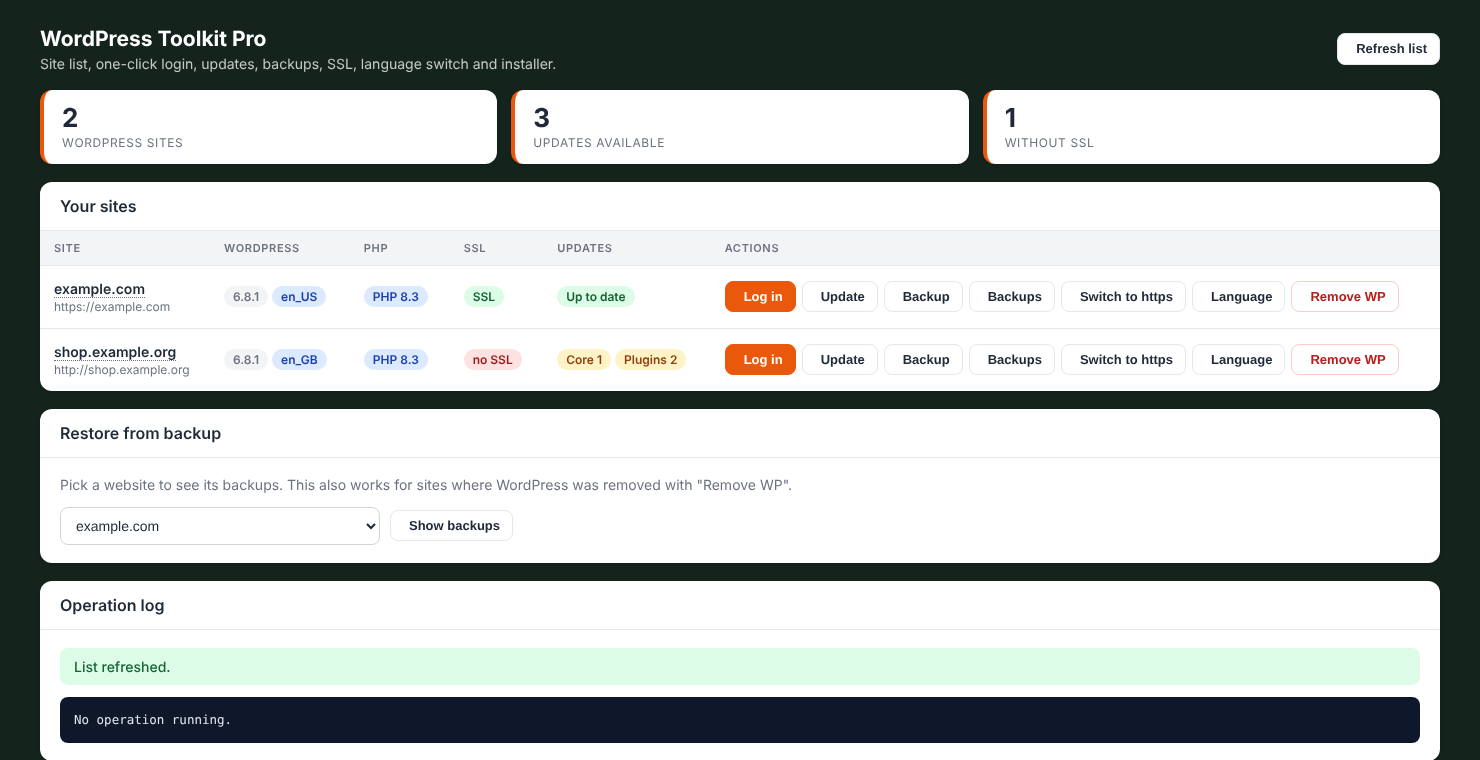
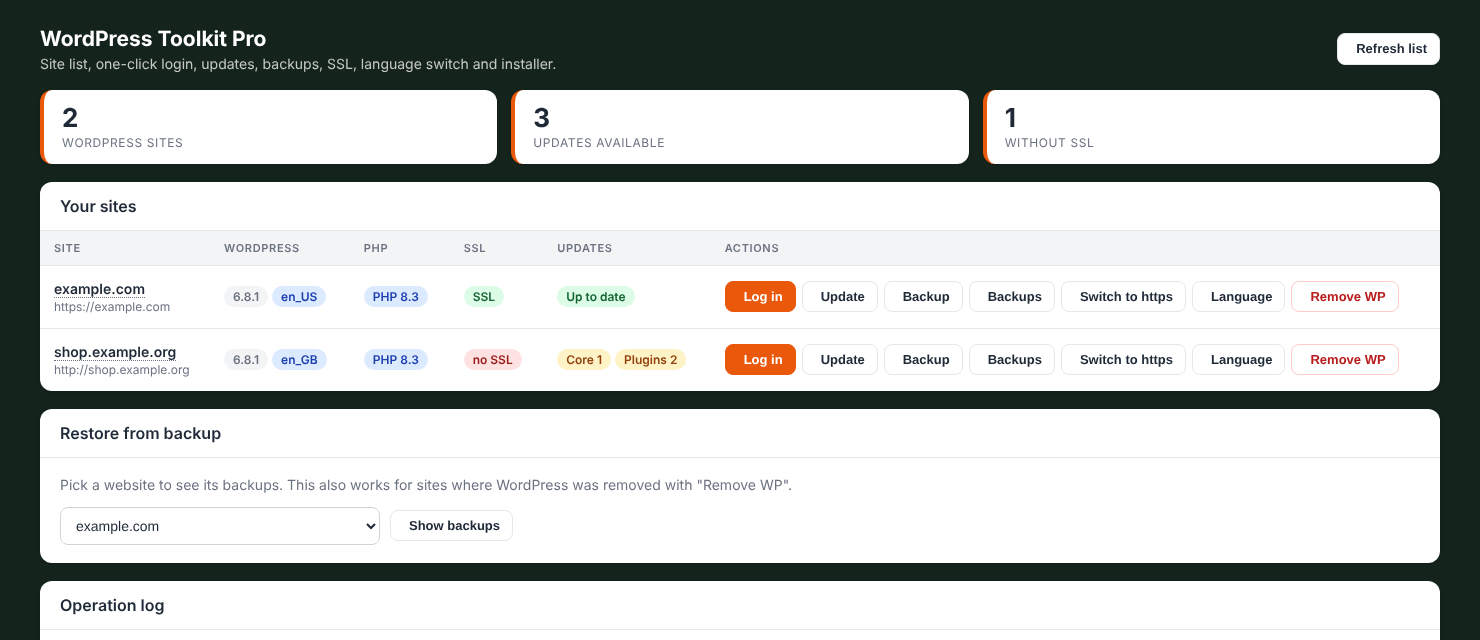
README: screenshots and step-by-step installation
Claude-Session: https://claude.ai/code/session_01XaVTjTMXY6eTLfQxTKzoXp

diff --git a/README.md b/README.md
@@ -20,6 +20,15 @@ A free, open-source plugin for [CyberPanel](https://cyberpanel.net/) (OpenLiteSp
 | **Remove WP** | Deletes the files, database and DB user of a site (the website stays in CyberPanel). Needs the domain typed as confirmation; a backup is taken first. |
 | **Installer** | Installs a fresh WordPress (random DB name/user/password, generated admin password, optional LiteSpeed Cache). Rolls back on failure. |
 
+## Screenshots
+
+*(Sample data.)*
+
+| | |
+|---|---|
+| ![Dashboard](docs/screenshot.png) | ![Backups and restore](docs/screenshot-backups.png) |
+| ![Change language](docs/screenshot-language.png) | ![Remove WordPress (typed confirmation)](docs/screenshot-remove.png) |
+
 ## Requirements
 
 * CyberPanel 3.0.x with OpenLiteSpeed, and root SSH access to the server
@@ -27,21 +36,44 @@ A free, open-source plugin for [CyberPanel](https://cyberpanel.net/) (OpenLiteSp
 * An `lsphp` binary (CyberPanel ships them), MariaDB, `openssl`, `tar`, `flock`
 * [WP-CLI](https://wp-cli.org/) at `/usr/local/bin/wp` (downloaded automatically on first install if missing)
 
-## Quick install
+## Installation, step by step
 
-On the server, as root (replace the URL with the release you want):
+You need SSH access to the server as **root**. Take a server snapshot first (e.g. in your hosting provider's control panel).
 
+**1. Get the zip.** Download `wordpressToolkitPro.zip` from the [latest release](../../releases/latest), or download it directly on the server in step 2 (option A).
+
+**2. Put it on the server as `/usr/local/CyberCP/wordpressToolkitPro.zip`.** The file name must be exactly that.
+
+*Option A: download on the server*
 ```bash
 cd /usr/local/CyberCP
 curl -fL -o wordpressToolkitPro.zip \
   https://github.com/ravxvx/cyberpanel-wordpress-toolkit-pro/releases/latest/download/wordpressToolkitPro.zip
-PYTHONPATH=/usr/local/CyberCP /usr/local/CyberCP/bin/python \
-  pluginInstaller/pluginInstaller.py install --pluginName wordpressToolkitPro
-rm -f /usr/local/CyberCP/wordpressToolkitPro.zip
 ```
 
-Wait a few seconds (the panel restarts itself), refresh the panel with Ctrl+F5 and open **WP Toolkit Pro** in the left sidebar.
-The zip file **must** be named `wordpressToolkitPro.zip`. Full instructions, updating and removing: [docs/INSTALL.md](docs/INSTALL.md).
+*Option B: upload from your computer* (run on **your** computer, then on the server):
+```bash
+scp wordpressToolkitPro.zip root@SERVER_IP:/root/wpt.zip      # on your computer
+cp /root/wpt.zip /usr/local/CyberCP/wordpressToolkitPro.zip   # on the server
+```
+
+**3. Check it is the current version** (should list `wptool.sh`):
+```bash
+unzip -l /usr/local/CyberCP/wordpressToolkitPro.zip | grep wptool
+```
+
+**4. Install:**
+```bash
+cd /usr/local/CyberCP
+PYTHONPATH=/usr/local/CyberCP /usr/local/CyberCP/bin/python \
+  pluginInstaller/pluginInstaller.py install --pluginName wordpressToolkitPro
+rm -f /usr/local/CyberCP/wordpressToolkitPro.zip /root/wpt.zip
+```
+The output should end with "Plugin successfully installed". The panel restarts itself a few seconds later.
+
+**5. Open it.** Refresh the panel (Ctrl+F5) and click **WP Toolkit Pro** in the left sidebar (or go to `https://SERVER_IP:8090/wordpressToolkitPro/`). The list of your WordPress sites loads automatically.
+
+**Updating:** run `pluginInstaller.py remove --pluginName wordpressToolkitPro`, then repeat steps 2-4 with the new zip. Your sites and backups are not touched. **Removing** and troubleshooting: [docs/INSTALL.md](docs/INSTALL.md), [docs/TROUBLESHOOTING.md](docs/TROUBLESHOOTING.md).
 
 ## Documentation
 
